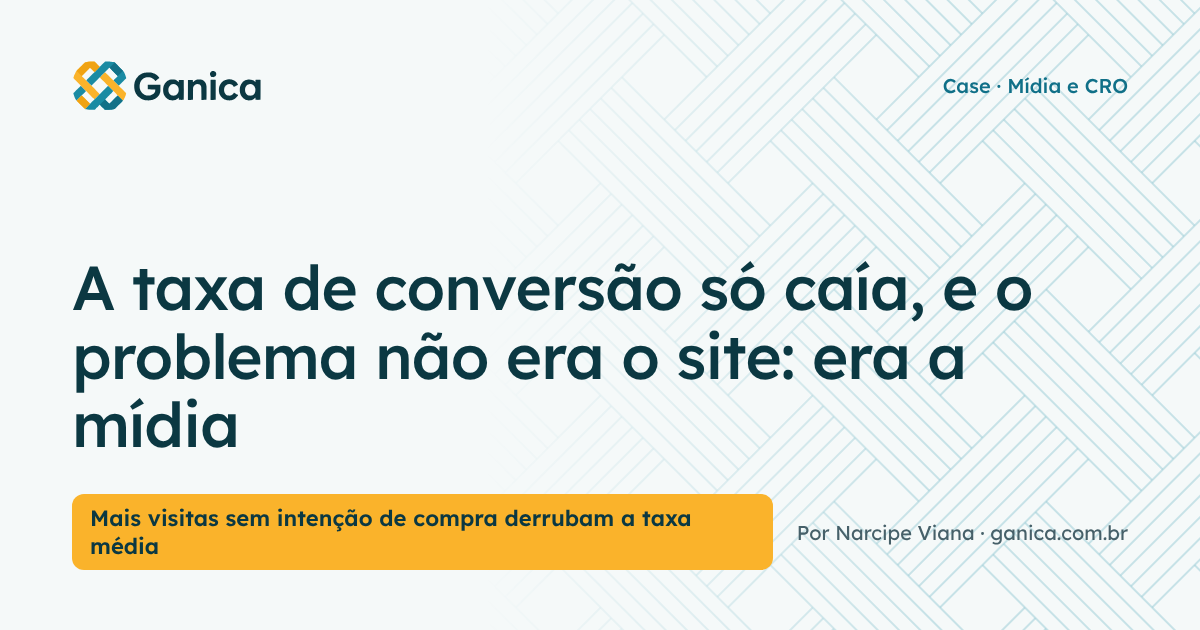
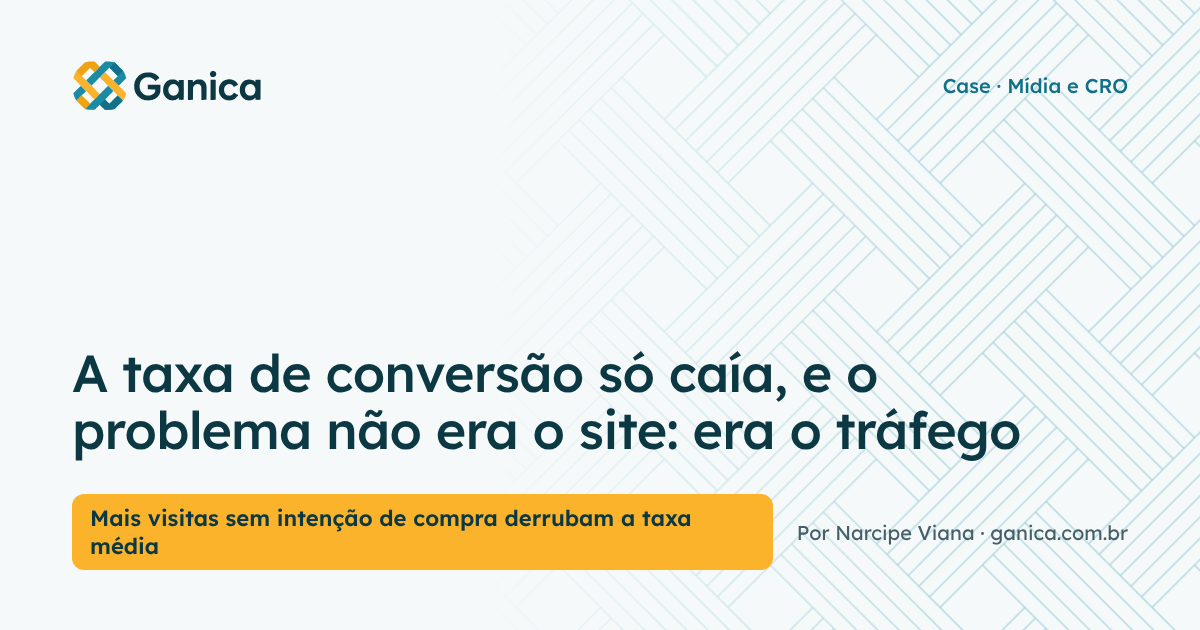
Publica estudo: A taxa de conversão só caía, e o problema não era o site: era o tráfego
Claude-Session: https://claude.ai/code/session_01MZ6zKPQPT5PGq4GeHwZ89r

Changed region(s): [[0.0617, 0.4222, 0.8633, 0.754]]

diff --git a/src/artigos/taxa-de-conversao-nao-sobe-trafego-desqualificado.md b/src/artigos/taxa-de-conversao-nao-sobe-trafego-desqualificado.md
@@ -1,22 +1,21 @@
 ---
-title: "A taxa de conversão só caía, e o problema não era o site: era a mídia"
+title: "A taxa de conversão só caía, e o problema não era o site: era o tráfego"
 seo_title: "Taxa de conversão não sobe? Às vezes o problema é a mídia"
 og_title: "Taxa de conversão não sobe? Um caso em que o problema era a mídia, não o site"
 description: "Taxa de conversão não sobe mesmo mudando o site? Veja um caso em que campanhas de engajamento e leads diluíram a conversão, e como separar o tráfego no GA4."
-twitter_description: "Mudamos o site várias vezes e a conversão só caía. O problema era o tráfego de campanhas de engajamento e leads. Como enxergar isso no GA4 antes de mexer na página."
+twitter_description: "O site mudou várias vezes e a conversão só caía. O problema era o tráfego de campanhas de engajamento e leads. Como enxergar isso no GA4 antes de mexer na página."
 slug: taxa-de-conversao-nao-sobe-trafego-desqualificado
 date: '2026-11-16'
-hora: "09:00"
+hora: "06:45"
 updated: '2026-11-16'
-rascunho: true
-publicar_em: '2026-11-16'
+rascunho: false
 usa_dado_cliente: true
 breadcrumb: Taxa de conversão e mídia paga
 secao: E-commerce
 card_kicker: "Case · Mídia e CRO"
 card_destaque: "Mais visitas sem intenção de compra derrubam a taxa média"
 card_titulo: "A taxa de conversão só caía, e o problema não era o site."
-card_resumo: "Num e-commerce em que atuamos, as mudanças no site não seguravam a conversão. A causa estava nas campanhas de engajamento e de leads. Mostramos como separar o tráfego no GA4 antes de mexer na página."
+card_resumo: "Num diagnóstico da Ganica em um e-commerce brasileiro, as mudanças no site não seguravam a conversão. A causa estava nas campanhas de engajamento e de leads. Mostramos como separar o tráfego no GA4 antes de mexer na página."
 tags_artigo:
   - CRO
   - mídia paga
@@ -33,10 +32,10 @@ sobre:
   - Mídia paga
   - Google Analytics 4
 imagem_og: ''
-resposta_curta: "Se a taxa de conversão não sobe mesmo depois de mudar o site, olhe primeiro para o tráfego. Campanhas de engajamento e de captação de leads são otimizadas para curtidas, cliques ou cadastros, não para compras, e enchem o site de visitantes sem intenção de comprar. A taxa média cai sem o site piorar. Separe a conversão por campanha no GA4 antes de mexer na página."
-deck: "Num e-commerce em que atuamos, a conversão continuava caindo apesar das mudanças no site. O problema estava na mídia: campanhas com outro objetivo levavam ao site gente que não vinha para comprar. Este estudo mostra como enxergar isso e como alinhar mídia e CRO."
+resposta_curta: "Se a taxa de conversão não sobe mesmo depois de mudar o site, olhe primeiro para o tráfego. Campanhas de engajamento e de captação de leads são otimizadas para curtidas, cliques ou cadastros, não para compras, e tendem a levar ao site muitos visitantes sem intenção de comprar. A taxa média cai sem o site piorar. Separe a conversão por campanha no GA4 antes de mexer na página."
+deck: "Num diagnóstico da Ganica em um e-commerce brasileiro, a conversão continuava caindo apesar das mudanças no site. O problema estava na mídia: campanhas com outro objetivo levavam ao site gente que não vinha para comprar. Este estudo mostra como enxergar isso e como alinhar mídia e CRO."
 resumo:
-  - "Num e-commerce em que atuamos, a taxa de conversão **continuou caindo** depois de várias mudanças no site. A causa não estava na página: estava no **tráfego** que chegava."
+  - "Num diagnóstico da Ganica em um e-commerce brasileiro, a taxa de conversão **continuou caindo** depois de várias mudanças no site. A causa não estava na página: estava no **tráfego** que chegava."
   - "A mídia paga tinha ativado campanhas de **engajamento** e de **captação de leads**. Na documentação da Meta, cada meta de otimização busca pessoas mais propensas à ação pedida: engajar com o post, preencher um formulário ou converter no site."
   - "Em exemplo hipotético, somar **50 mil** visitas que quase não compram a uma loja com **50 mil** visitas convertendo **2%** derruba a taxa média para cerca de **1%**, mesmo com **mais pedidos**."
   - "No GA4, a taxa de conversão por campanha sai das dimensões de sessão (campanha, origem e mídia) cruzadas com compras e com a taxa de engajamento."
@@ -50,12 +49,14 @@ faq:
     resposta: "Pode comprar, mas em outro tempo. Por isso o lead deve ser medido numa janela própria, por exemplo quantos compram em 30 ou 60 dias depois do cadastro, e não pela compra na primeira visita. Essa medição exige cruzar a lista de leads com os pedidos da loja, usando só os dados necessários, como manda a LGPD."
   - pergunta: "Como saber se a queda de conversão é do site ou do tráfego?"
     resposta: "Compare a taxa de conversão de um grupo de tráfego estável, como busca orgânica ou campanhas de venda, antes e depois da queda. Se esse grupo se manteve e a média caiu, o problema é a mistura do tráfego. Se o grupo estável também caiu, aí vale investigar o site."
-fontes: "Caso: diagnóstico da Ganica num e-commerce brasileiro, apresentado só de forma qualitativa e sem números do cliente. Meta for Developers, referência da API de marketing (campo de objetivo de otimização do conjunto de anúncios), consultada em novembro de 2026. Central de Ajuda do Google Ads, página sobre como escolher a estratégia de lances pelo objetivo, consultada em novembro de 2026. Central de Ajuda do Google Analytics, páginas sobre dimensões e métricas e sobre dimensões de origem de tráfego, e referência da API de dados do GA4, consultadas em novembro de 2026. O exemplo de diluição da taxa é hipotético, com números ilustrativos."
+fontes: "Caso: diagnóstico da Ganica num e-commerce brasileiro, apresentado só de forma qualitativa e sem números do cliente. Meta for Developers, referência da API de marketing (campo de objetivo de otimização do conjunto de anúncios e página do objeto promovido), consultada em novembro de 2026. Central de Ajuda do Google Ads, página sobre como escolher a estratégia de lances pelo objetivo, consultada em novembro de 2026. Central de Ajuda do Google Analytics, páginas sobre dimensões e métricas e sobre dimensões de origem de tráfego, e referência da API de dados do GA4, consultadas em novembro de 2026. O exemplo de diluição da taxa é hipotético, com números ilustrativos."
 fontes_urls:
   - "Data API schema, Google Analytics Data API (Google) | https://developers.google.com/analytics/devguides/reporting/data/v1/api-schema"
   - "Ad Set, referência da API de marketing (Meta for Developers) | https://developers.facebook.com/documentation/ads-commerce/marketing-api/reference/ad-campaign"
   - "Determine a bid strategy based on your goals, Central de Ajuda do Google Ads (Google) | https://support.google.com/google-ads/answer/2472725?hl=en"
   - "Dimensões e métricas do Analytics, Central de Ajuda do Google Analytics (Google) | https://support.google.com/analytics/answer/9143382"
+  - "Ad Set, Promoted Object, referência da API de marketing (Meta for Developers) | https://developers.facebook.com/documentation/ads-commerce/marketing-api/reference/ad-promoted-object"
+  - "Lei Geral de Proteção de Dados Pessoais, Lei 13.709/2018 (Planalto) | https://www.planalto.gov.br/ccivil_03/_ato2015-2018/2018/lei/l13709.htm"
   - "Escopos das dimensões de origem de tráfego, Central de Ajuda do Google Analytics (Google) | https://support.google.com/analytics/answer/11080067"
 cta_titulo: "A sua taxa de conversão está medindo o site ou a mistura da mídia?"
 cta_texto: "Um diagnóstico de CRO separa o tráfego por objetivo de campanha, mostra a conversão de quem veio para comprar e diz se o problema está na página ou na mídia."
@@ -70,7 +71,7 @@ Esse é um erro comum no e-commerce: mídia paga e CRO trabalham separados. CRO 
 
 ## O que aconteceu neste caso?
 
-Num e-commerce em que atuamos, a taxa de conversão era um desafio, e o trabalho começou pelo site: a equipe lutava para otimizar as páginas e entender o que acontecia. Fizemos diversas mudanças no site, e a taxa, em vez de subir, continuava caindo.
+Num diagnóstico da Ganica em um e-commerce brasileiro, a taxa de conversão era um desafio, e o trabalho começou pelas páginas. Foram feitas diversas mudanças no site, e a taxa, em vez de subir, continuava caindo.
 
 Quando paramos para analisar o tráfego que chegava, a resposta apareceu. A equipe de mídia paga tinha ativado campanhas de engajamento e campanhas de captação de leads (cadastros de contato) que levavam tráfego para o site. Esse tráfego quase não comprava, e o volume dele era grande o bastante para puxar para baixo a taxa média da loja.
 
@@ -78,15 +79,19 @@ O problema não estava no site. A mistura do tráfego estava mudando, e era isso
 
 ## Por que campanhas de engajamento e de leads derrubam a taxa de conversão?
 
-Campanhas de engajamento e de leads derrubam a taxa de conversão porque as plataformas de anúncio procuram o público mais propenso à ação pedida, e essa ação não é a compra. Quando esses anúncios levam ao site, chegam visitas de quem engaja ou se cadastra, não de quem veio comprar. Na [referência da API de marketing da Meta](https://developers.facebook.com/documentation/ads-commerce/marketing-api/reference/ad-campaign), cada meta de otimização do conjunto de anúncios diz para quem o anúncio será entregue. Com engajamento, o alvo é quem tende a interagir com o post. Com geração de leads, quem tende a preencher formulário. Com cliques no link, quem tende a clicar. Só a meta de conversões no site mira quem tende a converter na loja.
+Campanhas de engajamento e de leads derrubam a taxa de conversão porque as plataformas de anúncio procuram o público mais propenso à ação pedida, e essa ação não é a compra. Quando esses anúncios levam ao site, chegam visitas de quem engaja ou se cadastra, não de quem veio comprar. Na [referência da API de marketing da Meta](https://developers.facebook.com/documentation/ads-commerce/marketing-api/reference/ad-campaign), cada meta de otimização do conjunto de anúncios diz para quem o anúncio será entregue.
+
+Com engajamento, o alvo é quem tende a interagir com o post. Com geração de leads, quem tende a preencher um formulário (em geral, dentro da própria Meta; quando o cadastro é no site, a campanha usa a conversão no site com um evento de cadastro). Com cliques no link, quem tende a clicar. Com conversões no site, o alvo é quem tende a fazer no site o evento escolhido pelo anunciante, e esse evento, definido no [objeto promovido do conjunto de anúncios](https://developers.facebook.com/documentation/ads-commerce/marketing-api/reference/ad-promoted-object), pode ser a compra (Purchase) ou um cadastro (Lead ou CompleteRegistration).
+
+Por isso, uma campanha de leads otimizada para o evento de cadastro também traz quem se cadastra, não quem compra. Para vender, a meta precisa ser o evento de compra (ou o valor da compra).
 
 No Google Ads, a lógica é a mesma. A [Central de Ajuda do Google Ads](https://support.google.com/google-ads/answer/2472725?hl=en) orienta escolher a estratégia de lance pelo objetivo: lance por cliques para gerar tráfego, por impressões para reconhecimento de marca e estratégias de conversão quando o objetivo é uma ação direta no site.
 
-Ou seja, a campanha de engajamento cumpre o que promete: encontra quem curte, comenta e clica. Só que essa pessoa, ao chegar ao site, não está no momento de comprar. A plataforma não errou; o erro é avaliar o site com um número que mistura esse público com o público de compra.
+Ou seja, a campanha de engajamento cumpre o que promete: encontra quem curte, comenta e clica. Só que essa pessoa, ao chegar ao site, não está no momento de comprar. A plataforma não errou; o erro é avaliar o site com um número que mistura esse público com o público de compra. Para saber o que cada campanha está otimizando, peça à equipe de mídia a meta de desempenho e o evento de conversão de cada conjunto ou grupo de anúncios, e não só o nome da campanha.
 
-## Como a média esconde o problema?
+## Como o tráfego desqualificado esconde o problema na média?
 
-A média esconde o problema porque soma grupos de tráfego com intenções muito diferentes num número só. Veja um exemplo hipotético, com números ilustrativos. Uma loja recebe 50 mil visitas por mês, de busca orgânica, campanhas de venda e acesso direto, e converte 2%, ou 1.000 pedidos. A mídia passa a rodar campanhas de engajamento e leads que trazem mais 50 mil visitas, das quais saem só 50 pedidos (1 a cada 1.000 visitas).
+O tráfego desqualificado esconde o problema porque a média soma grupos de tráfego com intenções muito diferentes num número só. Veja um exemplo hipotético, com números ilustrativos. Uma loja recebe 50 mil visitas por mês, de busca orgânica, campanhas de venda e acesso direto, e converte 2%, ou 1.000 pedidos. A mídia passa a rodar campanhas de engajamento e leads que trazem mais 50 mil visitas, das quais saem só 50 pedidos (1 a cada 1.000 visitas).
 
 | Cenário hipotético | Taxa de conversão da loja |
 |---|---|
@@ -107,22 +112,24 @@ Para enxergar a conversão por campanha no GA4 (Google Analytics 4, a ferramenta
 Numa exploração livre, coloque a campanha da sessão e a origem/mídia da sessão nas linhas e acrescente as métricas abaixo (no relatório Aquisição de tráfego, use uma como dimensão principal e a outra como secundária, e personalize o relatório para incluir as métricas de compra e carrinho). As definições estão na [página de dimensões e métricas do GA4](https://support.google.com/analytics/answer/9143382) e na [referência de métricas da API de dados do GA4](https://developers.google.com/analytics/devguides/reporting/data/v1/api-schema):
 
 - **Sessões**, para ver o peso de cada campanha no total.
-- **Compras de e-commerce** (Ecommerce purchases) e a taxa de eventos principais da sessão (Session key event rate, na documentação do Google: a parte das sessões em que aconteceu algum evento principal). No relatório, escolha só o evento de compra (`purchase`) no seletor da coluna dessa métrica: se o cadastro de lead também estiver marcado como evento principal, as campanhas de leads vão parecer converter bem.
+- **Compras de e-commerce** (Ecommerce purchases) e a taxa de eventos principais da sessão (Session key event rate, na documentação do Google: a parte das sessões em que aconteceu algum evento principal). Essa taxa conta qualquer evento principal: se o cadastro de lead também estiver marcado como evento principal, as campanhas de leads vão parecer converter bem. Para ver só a compra, divida as Compras de e-commerce pelas Sessões de cada campanha: é uma taxa aproximada de compra por sessão, boa para comparar campanhas entre si.
 - **Taxa de engajamento** (Engagement rate), que é a parte das sessões engajadas: as que duraram 10 segundos ou mais, tiveram um evento principal ou duas ou mais visualizações de página.
 - **Adições ao carrinho** (Add to carts), para ver se o visitante ao menos começou a comprar.
 
-O sinal de tráfego desqualificado (visitas sem intenção de compra) é claro: muitas sessões, poucas adições ao carrinho, quase nenhuma compra e engajamento baixo. Para esse corte funcionar, as campanhas precisam chegar com parâmetros de campanha (UTMs) bem preenchidos; o estudo de [auditoria de rastreamento no GA4](/auditoria-rastreamento-ga4-gtm-ecommerce.html) mostra como conferir isso.
+O sinal de tráfego desqualificado (visitas sem intenção de compra) é claro: muitas sessões, poucas adições ao carrinho, quase nenhuma compra e engajamento baixo. Para esse corte funcionar, as campanhas precisam chegar com parâmetros de campanha (UTMs) bem preenchidos. Antes de comparar campanhas, confira também se o GA4 conta cada compra uma vez só, como mostra o estudo de [auditoria de rastreamento no GA4](/auditoria-rastreamento-ga4-gtm-ecommerce.html).
+
+O teste que separa site de mídia é simples: compare, antes e depois da queda, a conversão de um grupo de tráfego estável, como busca orgânica ou campanhas de venda. Se esse grupo se manteve e a média caiu, a queda vem da mistura do tráfego, não do site.
 
 ## O que fazer para mídia e CRO trabalharem juntos?
 
 Para mídia e CRO trabalharem juntos, a loja precisa de um combinado simples sobre objetivos, nomes e números. O caminho que a Ganica recomenda:
 
 1. **Nomeie cada campanha pelo objetivo.** Inclua o objetivo no nome e nas UTMs (por exemplo, "venda", "engajamento", "leads"), para que qualquer pessoa separe o tráfego no GA4 sem perguntar.
-2. **Separe o relatório de CRO.** Acompanhe a taxa de conversão do tráfego com intenção de compra (busca orgânica, direto e campanhas de venda) à parte da taxa geral. Assim, a meta de conversão do CRO não sobe e desce junto com a verba de mídia.
+2. **Separe o relatório de CRO.** Acompanhe à parte a taxa de conversão do tráfego com intenção de compra, em geral busca orgânica, acesso direto e campanhas de venda. Confira na sua loja: o orgânico de blog, por exemplo, também costuma ter pouca intenção de compra. Assim, a meta de conversão do CRO não sobe e desce junto com a verba de mídia.
 3. **Avise antes de mudar.** Toda campanha nova ou mudança grande de verba entra numa agenda compartilhada, com data. Assim, ninguém atribui ao site uma queda que veio da mídia, nem o contrário.
 4. **Meça cada campanha pelo que ela promete.** Engajamento se mede por alcance e interação; lead, por custo do cadastro e por quantos compram depois; venda, por pedidos e receita.
-5. **Leve o lead para uma régua de nutrição e dê a ele uma janela própria.** Cruze a lista de leads com os pedidos e veja quantos compram em 30 ou 60 dias, em vez de cobrar compra na primeira visita. Esse cruzamento usa dado pessoal: pela LGPD, limite-o ao necessário (por exemplo, um identificador do contato e a data do pedido) e restrinja o acesso ao arquivo.
-6. **Teste o site só com o tráfego certo.** Num teste A/B (mostrar duas versões da página para grupos diferentes e comparar), mudanças na mistura do tráfego durante o teste contaminam o resultado. Acompanhe o teste segmentado por tráfego com intenção de compra.
+5. **Leve o lead para uma régua de nutrição e dê a ele uma janela própria.** Cruze a lista de leads com os pedidos e veja quantos compram em 30 ou 60 dias, em vez de cobrar compra na primeira visita. Esse cruzamento usa dado pessoal: pelo princípio da necessidade da [LGPD (art. 6º, III, da Lei 13.709/2018)](https://www.planalto.gov.br/ccivil_03/_ato2015-2018/2018/lei/l13709.htm), limite-o ao necessário (por exemplo, um identificador do contato e a data do pedido) e restrinja o acesso ao arquivo.
+6. **Teste o site só com o tráfego certo.** Num teste A/B (mostrar duas versões da página, ao mesmo tempo, a grupos sorteados de visitantes), as duas versões recebem a mesma mistura de tráfego, e a comparação continua justa. Mas um grande volume de visitas sem intenção de compra dilui a diferença e exige mais tempo de teste, e a comparação de antes e depois, sem grupo de controle, fica contaminada pela mudança na mídia. Leia o resultado também só com o tráfego com intenção de compra e prefira o teste com sorteio a comparar períodos.
 
 Para entender como essa leitura se encaixa na análise geral da loja, o estudo sobre [taxa de conversão do e-commerce](/taxa-de-conversao-ecommerce.html) mostra como abrir a taxa por etapa, canal e tipo de cliente, e o estudo sobre [investir em CRO](/investir-em-cro-ecommerce.html) mostra por que a conversão muda o custo de cada pedido de mídia.
 
